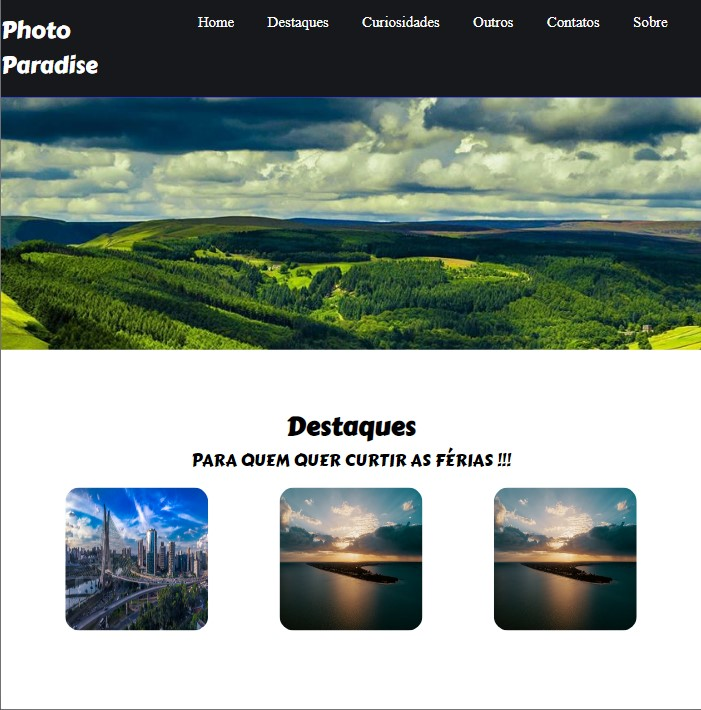
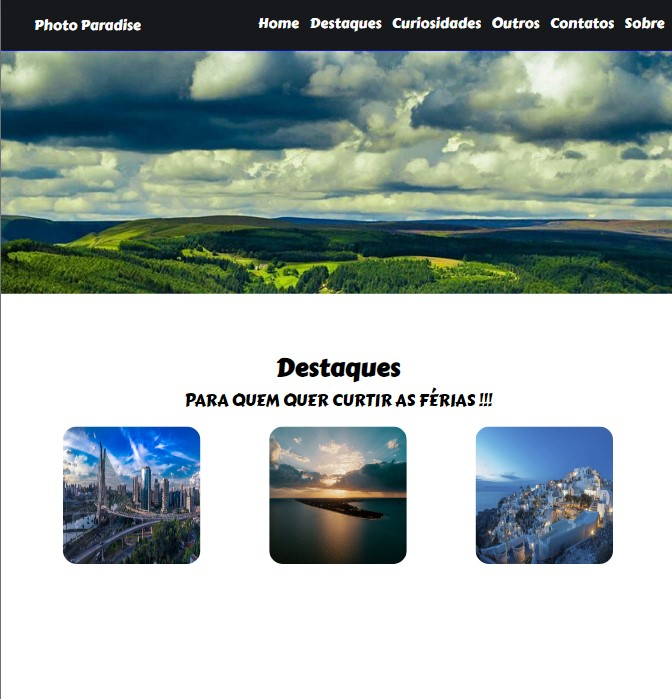
Adicionei o link do site da livraria

diff --git a/index.html b/index.html
@@ -165,14 +165,14 @@
 
                 <div class="card">
                     <div class="card-img-wrapper">
-                        <img src="imagens/proj2.jpg" alt="imagem do projeto Maratona" />
+                        <img src="imagens/proj2.2.jpg" alt="imagem do projeto Maratona" />
                     </div>
                     <!--card-img-wrapper-->
                     <div class="card-info">
                         <h2>Livraria do Jean</h2>
                         <h3>HTML, CSS</h3>
                         <p>Site de livraria online construído também em HTML5 e CSS3 </p>
-                        <a href="" target="_blank"><button class="btn" >Saiba Mais</button></a>
+                        <a href="https://livraria-jean.netlify.app" target="_blank"><button class="btn" >Saiba Mais</button></a>
                     </div>
                     <!--card-info-->
                 </div>

diff --git a/style.css b/style.css
@@ -371,7 +371,7 @@ h2 {
 
 .card {
     margin-top: 5rem;
-    width: 20rem;
+    width: 25rem;
     height: 30rem;
     position: relative;
 }
@@ -735,6 +735,12 @@ footer {
         display: grid;
         grid-template-columns: auto;
         width: 100%;
+    }
+    .card {
+        margin-top: 5rem;
+        width: 20rem;
+        height: 30rem;
+        position: relative;
     }
     .sessao-contato {
         width: auto;
